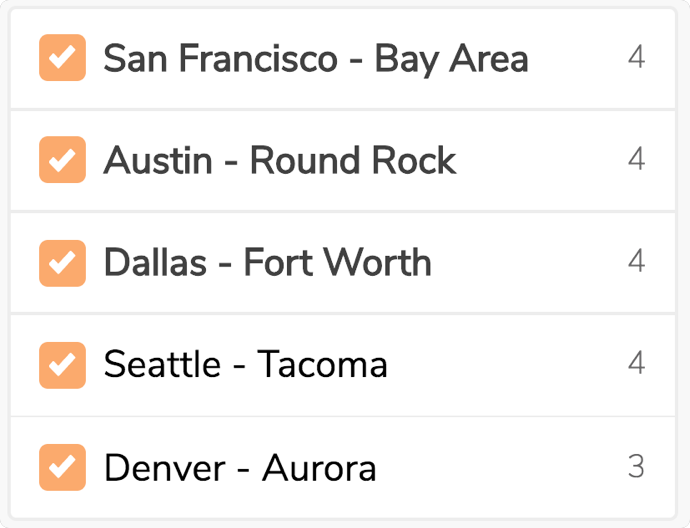
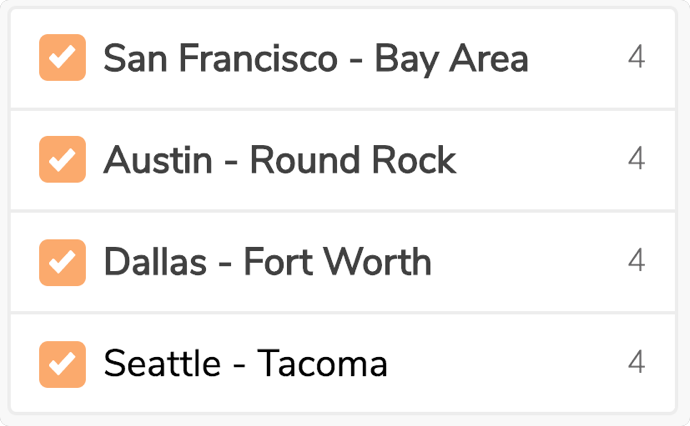
Nix blacklist from clean lesson

diff --git a/server/lessons/clean-and-standardize.html b/server/lessons/clean-and-standardize.html
@@ -68,11 +68,6 @@
         <img alt="Inspect element" src="images/clean_standardize_lesson/2_refine_result.png">
       </figure>
     </li>
-    <li
-      data-highlight='[{"type":"WfModule","moduleName":"Refine"}]'
-      data-test="const params = workflow.tabs[0].wfModules[3].params; const blacklist = params.refine.blacklist; return blacklist.join('|') === 'Denver - Aurora'"
-    >Un-check <kbd>Denver - Aurora</kbd> which does not contain valid population data.
-    </li>
   </ol>
 </section>
 <section>
